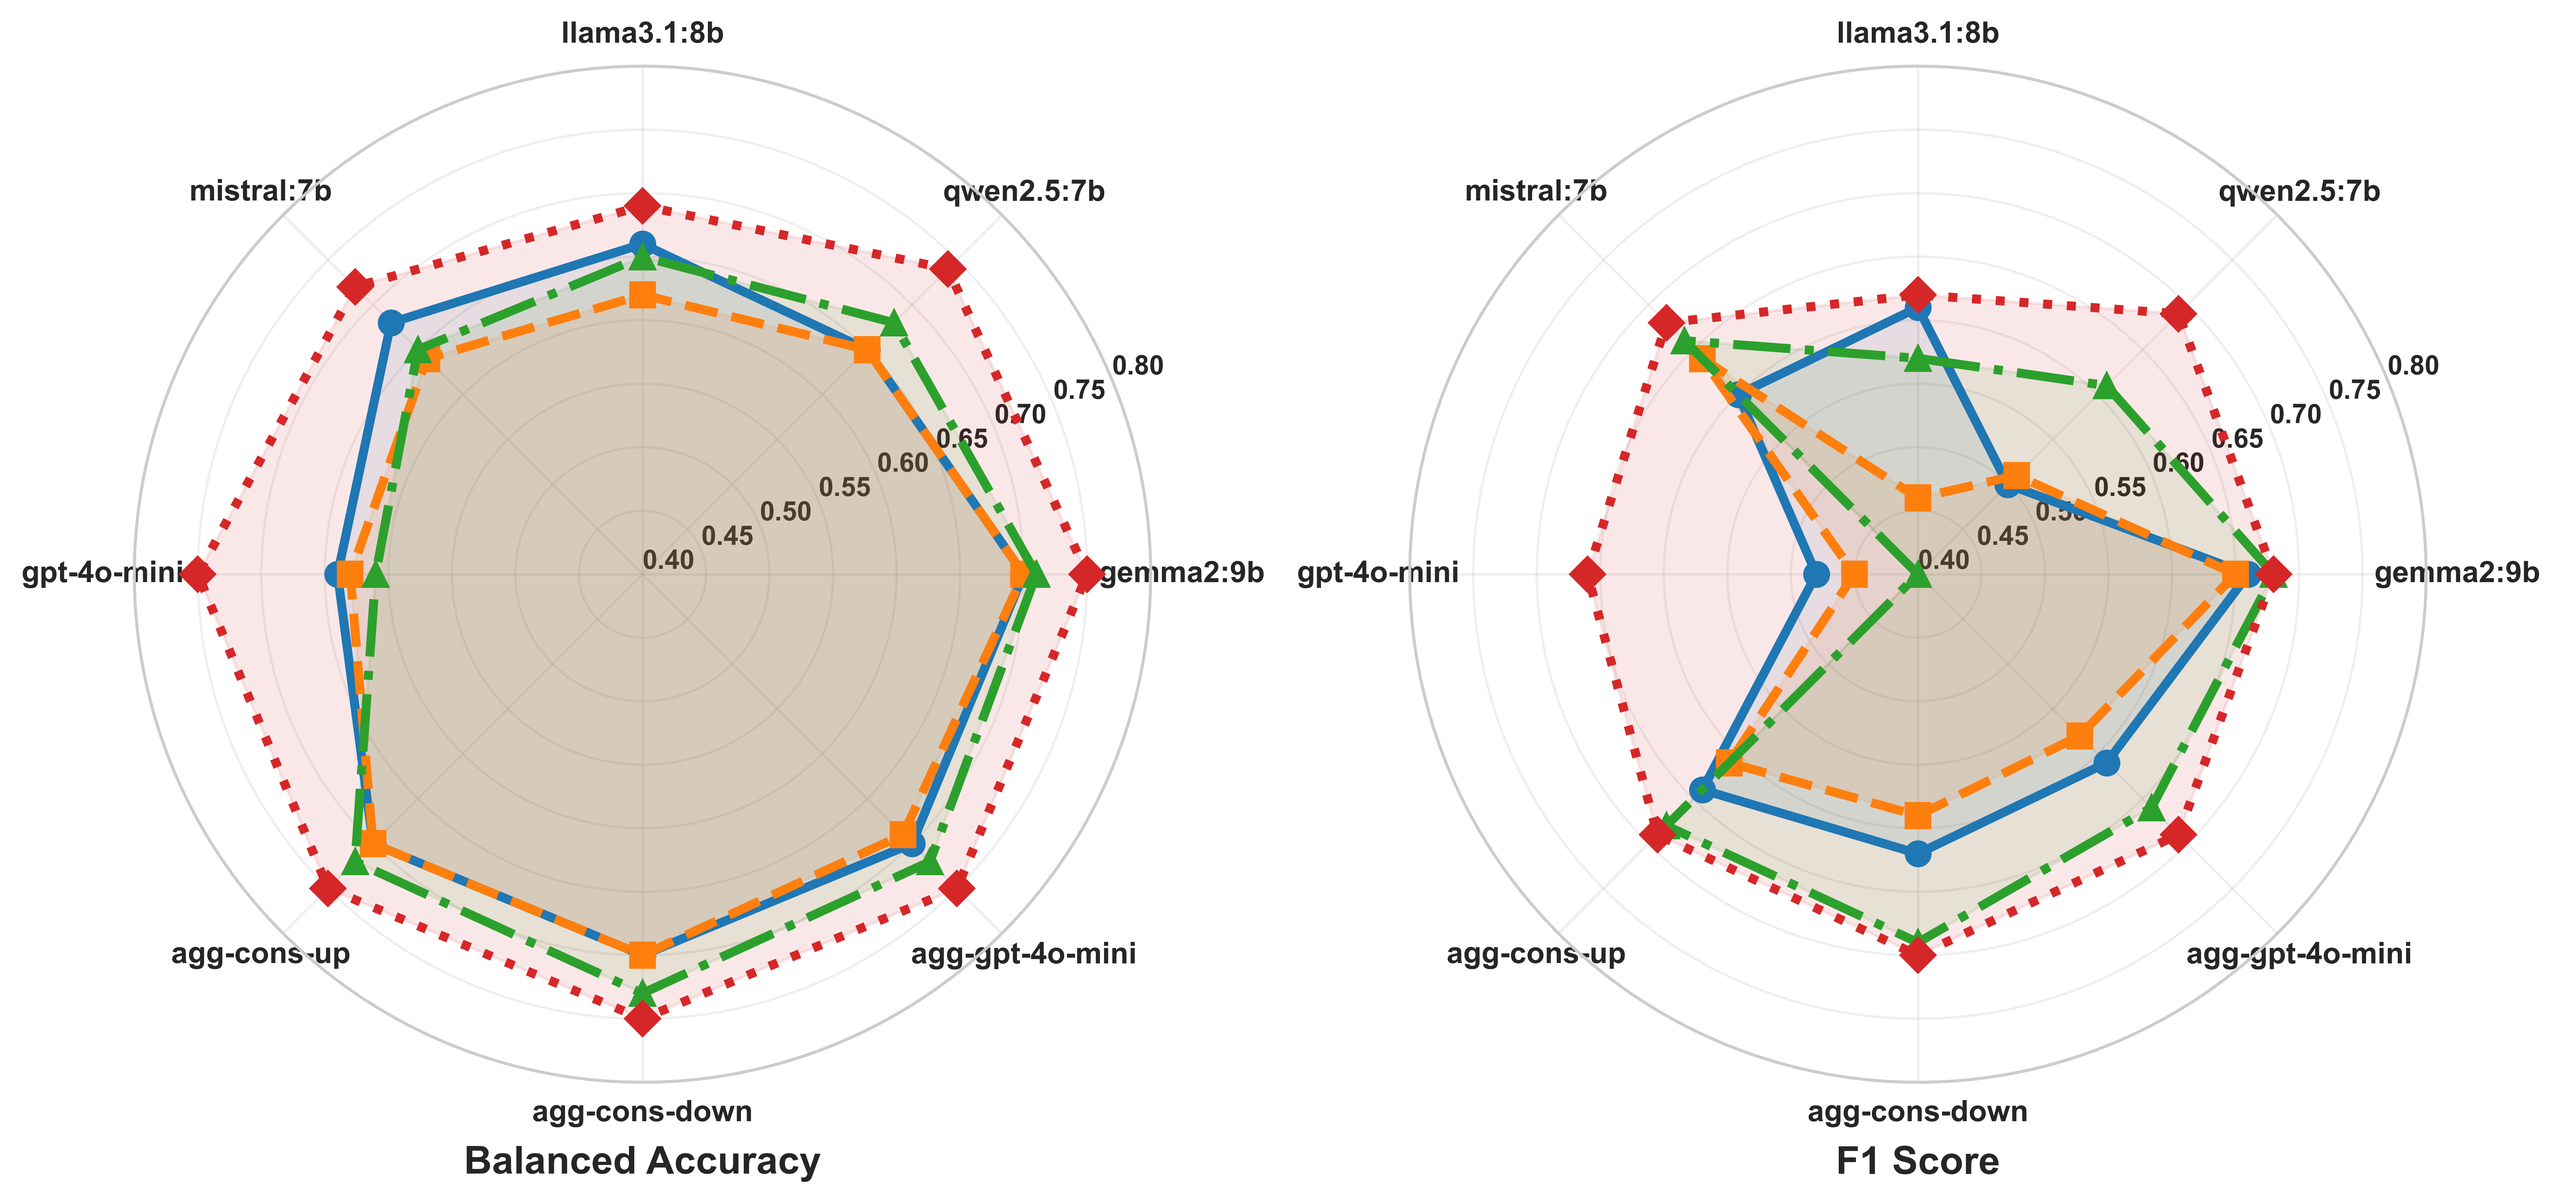
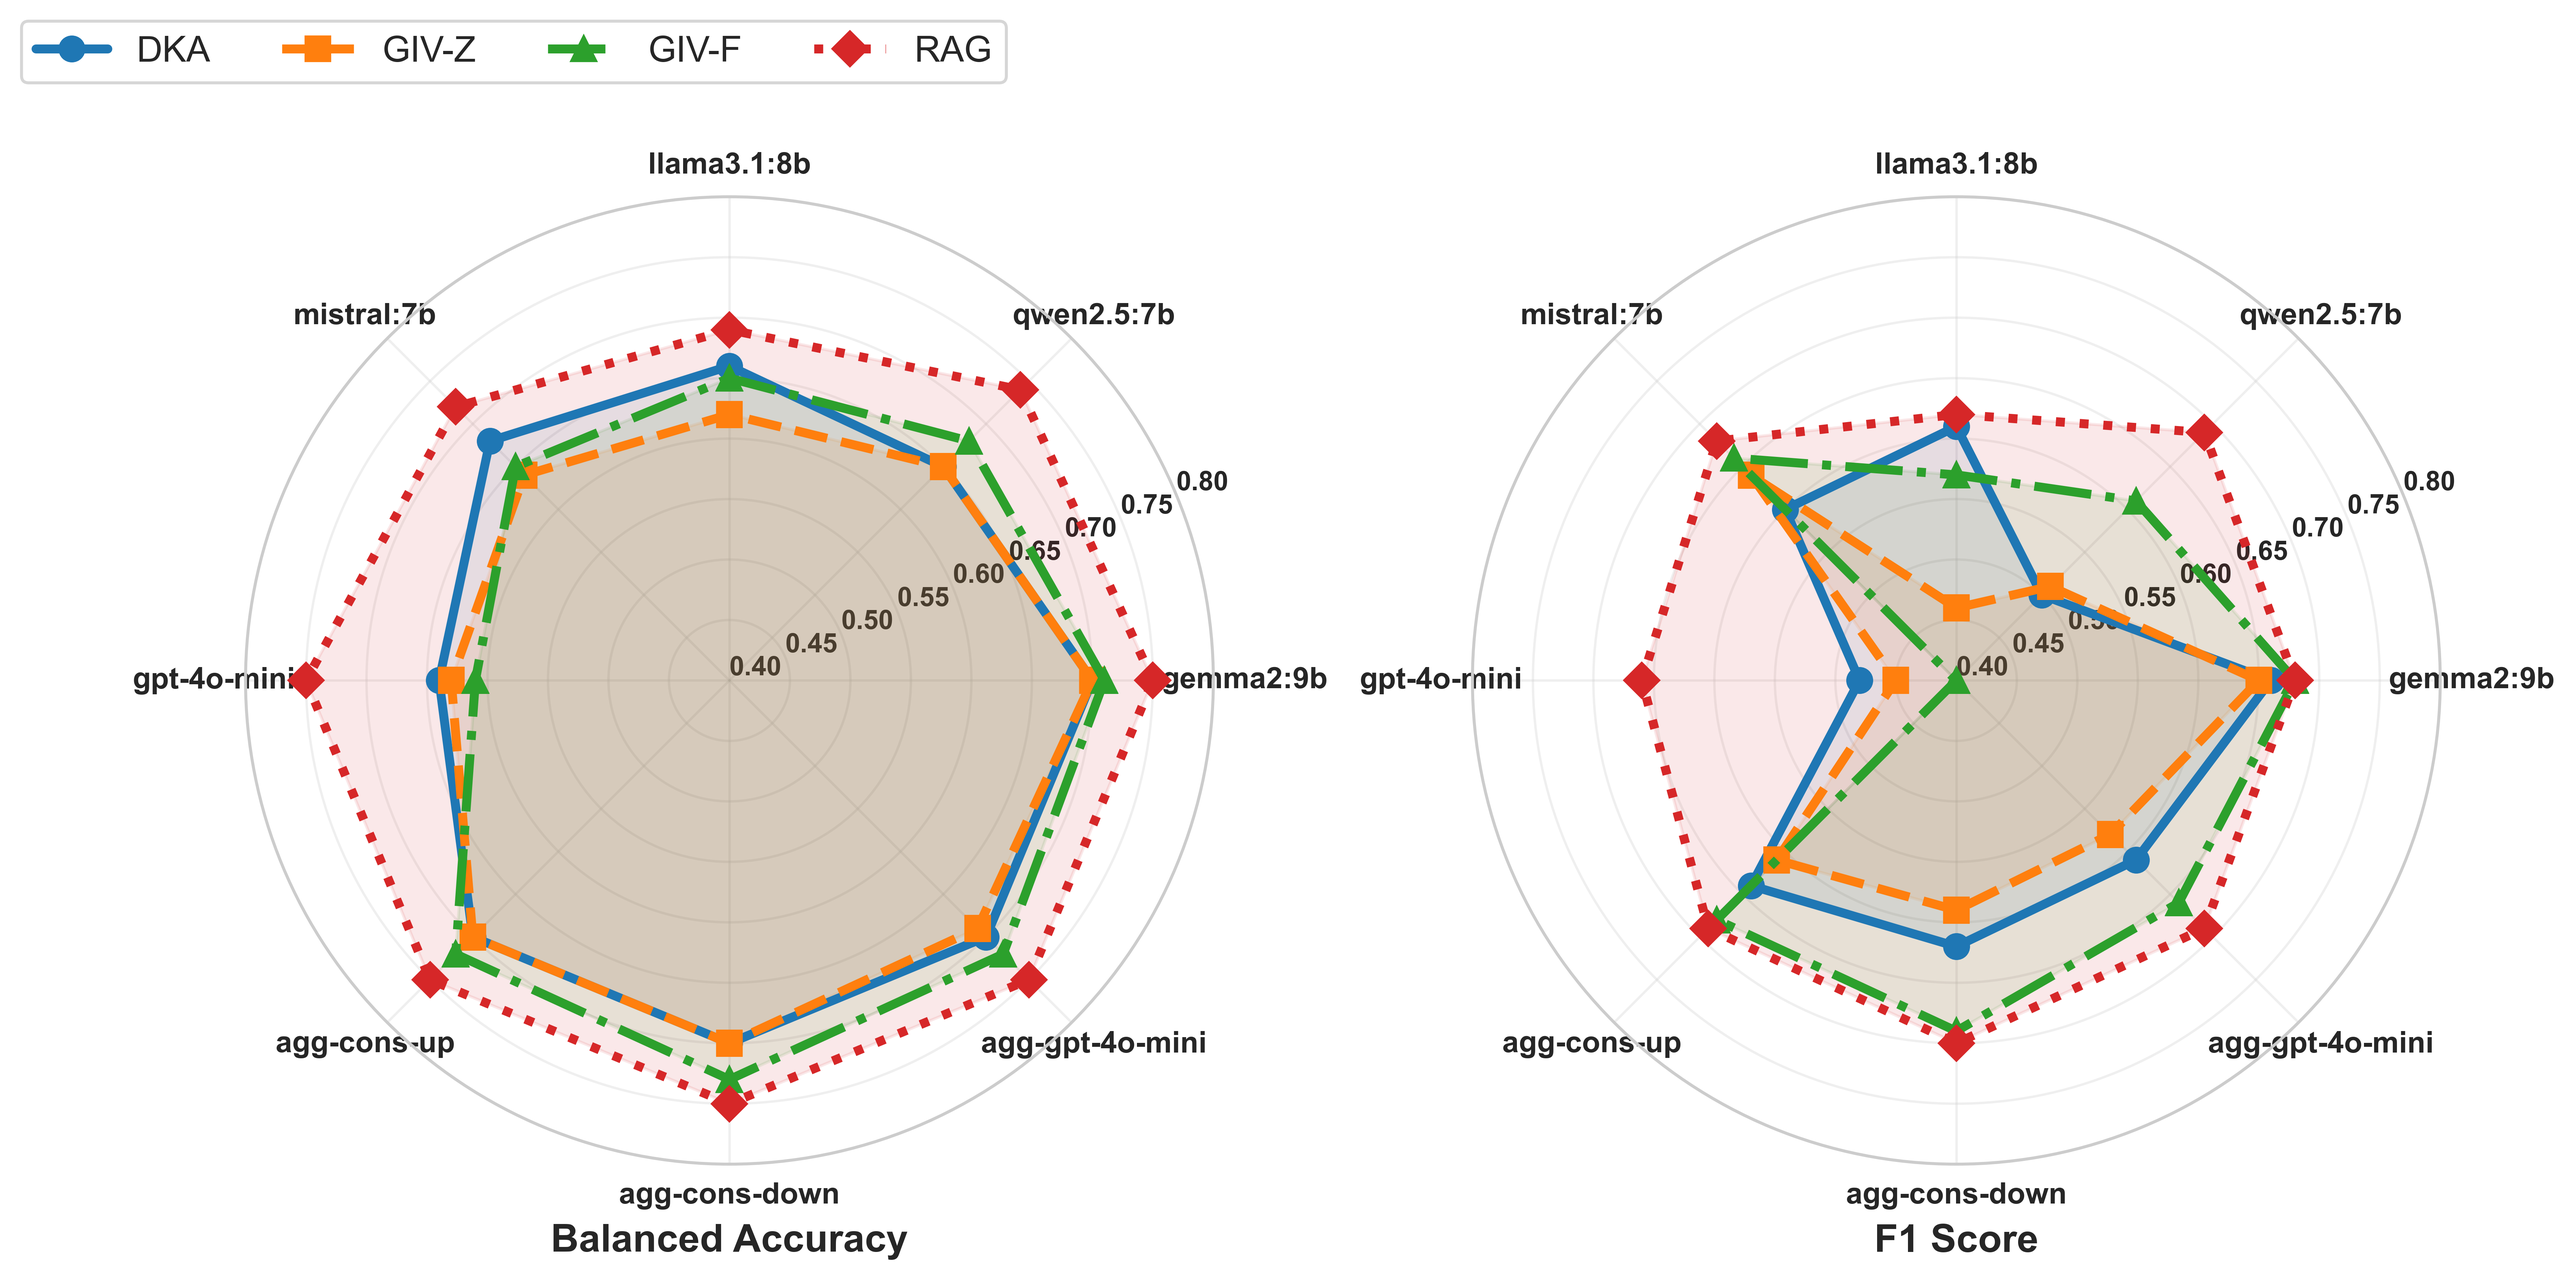
fix: move the appendix results to the extra-experiments to make it clear

diff --git a/analysis/bacc_comparison.py b/analysis/bacc_comparison.py
@@ -153,8 +153,8 @@ for metric_idx, metric in enumerate(metric_names):
 
 
     # Add legend only to the second chart to avoid duplication
-    # if metric_idx == 0:
-    #     ax.legend(loc='upper left', bbox_to_anchor=(-0.2, 1.1), fontsize=12, frameon=True)
+    if metric_idx == 0:
+        ax.legend(ncol=4, loc='upper left', bbox_to_anchor=(-0.25, 1.2), fontsize=12, frameon=True)
 
 # Add overall title
 # fig.suptitle('Model Performance Comparison: BACC vs F1 Scores',

diff --git a/README.md b/README.md
@@ -66,8 +66,8 @@ These findings underscore the **urgent need for systematic benchmarking** and hi
 ---
 
 ### 📊 Detailed Analysis:
-- 🔍 For comprehensive ablation study results: [Ablation Study Results](results/ablation_study_results/README.md)
-- 💰 For token usage analysis and computational cost implications: [Token Usage Analysis](results/token/Readme.md)
+- 🔍 For comprehensive ablation study results: [Ablation Study Results](extra-experiments/ablation_study_results/README.md)
+- 💰 For token usage analysis and computational cost implications: [Token Usage Analysis](extra-experiments/token/Readme.md)
 
 ## 🚀 Features
 
